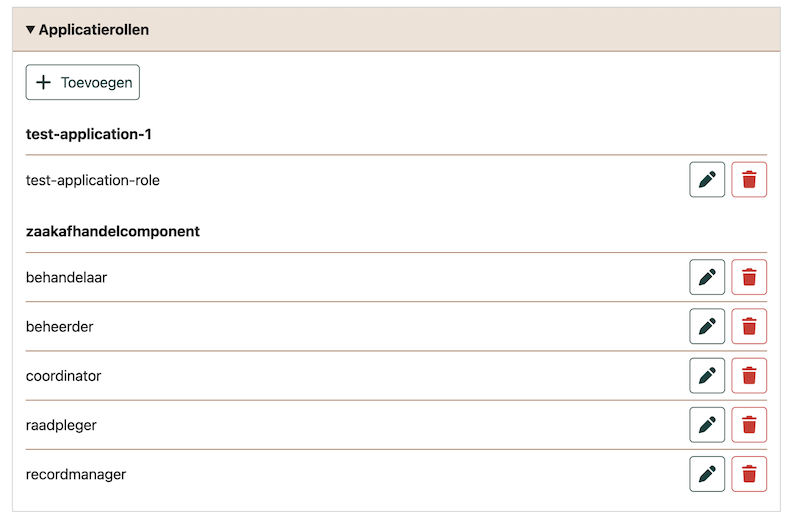
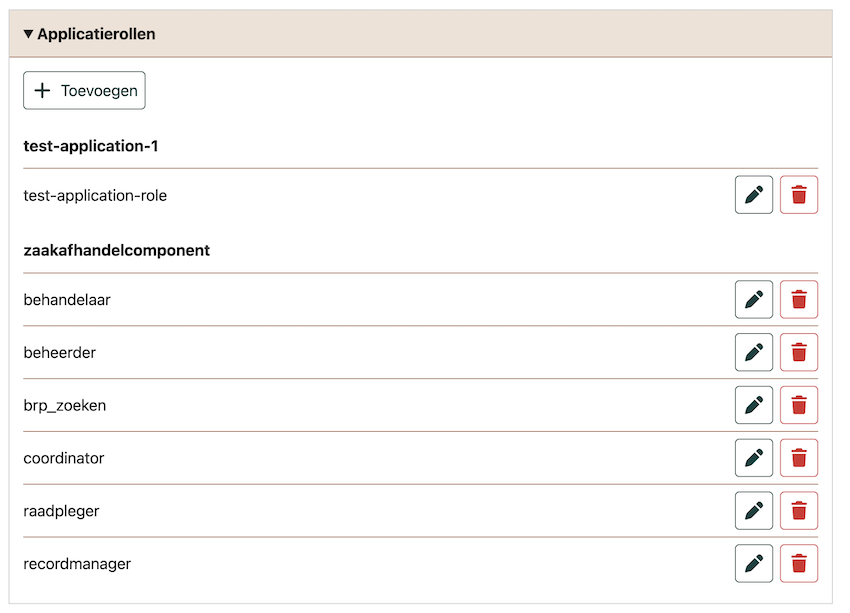
docs: Add documentation for brp_zoeken (#6239)
This PR add documentation for the new application role brp_zoeken

- inrichting-zaakafhandelcomponent.md has been updated with the new
application role and screenshot
- accesControlPolicies.md has been updated to include brp_zoeken in the
rights matrix. It has been added as a new application role

Solves PZ-11034 & PZ-11040

Changed region(s): [[0.0, 0.4023, 0.9688, 0.9594], [0.0312, 0.2166, 0.9688, 0.4023], [0.0, 0.0, 1.0, 0.1857]]

diff --git a/docs/solution-architecture/accessControlPolicies.md b/docs/solution-architecture/accessControlPolicies.md
@@ -12,12 +12,14 @@ Since every user in ZAC has a role, these policies are used to enforce the acces
 As also documented in the [ZAC gebruikershandleiding](../manuals) ZAC supports the following application user roles (in Dutch):
 
 | Role          | Description                                                                                                                                |
-| :------------ | :----------------------------------------------------------------------------------------------------------------------------------------- |
-| Raadpleger    | Een raadpleger. Heeft rechten om zaken, taken en documenten te raadplegen, maar niet om deze te wijzigen.                                  |
-| Behandelaar   | Een zaakbehandelaar. Heeft alle rechten om met de werklijsten, zaken, taken en documenten te werken.                                       |
-| Coördinator   | Een zaakcoördinator of ook wel werkverdeler genoemd. Heeft rechten om vanuit werklijsten werk te verdelen en zaken en taken te raadplegen. |
-| Recordmanager | Mag zaken en taken raadplegen en heeft aanvullende rechten op het gebied van documenten en beëindigde zaken.                               |
-| Beheerder     | De functioneel beheerder. Heeft toegang tot de beheerschermen van ZAC en kan daar diverse instellingen aanmaken en wijzingen.              |
+|:--------------|:-------------------------------------------------------------------------------------------------------------------------------------------|
+| raadpleger    | Een raadpleger. Heeft rechten om zaken, taken en documenten te raadplegen, maar niet om deze te wijzigen.                                  |
+| behandelaar   | Een zaakbehandelaar. Heeft alle rechten om met de werklijsten, zaken, taken en documenten te werken.                                       |
+| coordinator   | Een zaakcoördinator of ook wel werkverdeler genoemd. Heeft rechten om vanuit werklijsten werk te verdelen en zaken en taken te raadplegen. |
+| recordmanager | Mag zaken en taken raadplegen en heeft aanvullende rechten op het gebied van documenten en beëindigde zaken.                               |
+| beheerder     | De functioneel beheerder. Heeft toegang tot de beheerschermen van ZAC en kan daar diverse instellingen aanmaken en wijzingen.              |
+| brp_zoeken    | Heeft het recht om personen op te zoeken in de BRP (Basisregistratie Personen).                                                            |
+
 
 Typically, these roles are assigned to individual users through groups.
 
@@ -25,84 +27,87 @@ Note that the ZAC authorisation architecture has been set up in such that a user
 next to their 'main' role in order to be able to work in ZAC.
 This means the following in practise:
 
-- A user with the 'Behandelaar' role also needs to have the 'Raadpleger' role
-- A user with the 'Coordinator' role also needs to have the 'Raadpleger' and 'Behandelaar' role
-- A user with the 'Recordmanager' role also needs to have the 'Raadpleger', 'Behandelaar' and 'Coordinator' roles
-- A user with the 'Beheerder' role also needs to have the 'Raadpleger', 'Behandelaar', 'Coordinator' and 'Recordmanager' roles
+- A user with the 'behandelaar' role also needs to have the 'raadpleger' role
+- A user with the 'coordinator' role also needs to have the 'raadpleger' and 'behandelaar' role
+- A user with the 'recordmanager' role also needs to have the 'raadpleger', 'behandelaar' and 'coordinator' roles
+- A user with the 'beheerder' role also needs to have the 'raadpleger', 'behandelaar', 'coordinator' and 'recordmanager' roles
+- A user with the 'brp_zoeken' role also needs to have the 'raadpleger' role
 
 ## ZAC policies per resource and role
 
 The following access control policies are enforced in the ZAC backend for the roles listed above for the
 various resources on which a user can perform actions:
 
-| Rechten                                              | Raadpleger |                                                        Behandelaar                                                        | Coördinator |                           Recordmanager                            | Beheerder |
-|:-----------------------------------------------------|:----------:|:-------------------------------------------------------------------------------------------------------------------------:|:-----------:|:------------------------------------------------------------------:|:---------:|
-|                                                      |            |                                                                                                                           |             |                                                                    |           |
-| **_Zaak rechten_** <br/>_(zie ook: Overige rechten)_ |            |                                                                                                                           |             |                                                                    |           |
-| lezen                                                |     ✅      |                                                                                                                           |             |                                                                    |           |
-| wijzigen                                             |            |                                                    ✅<br/>_(zaak open)_                                                    |             |                      ✅<br/>_(en afgehandeld)_                      |           |
-| toekennen                                            |            |                                                    ✅<br/>_(zaak open)_                                                    |             |                      ✅<br/>_(en afgehandeld)_                      |           |
-| behandelen                                           |            |                                                             ✅                                                             |             |                                                                    |           |
-| afbreken                                             |            |                                                             ✅                                                             |             |                                                                    |           |
-| heropenen                                            |            |                                                                                                                           |             |                                 ✅                                  |           |
-| bekijkenZaakdata                                     |            |                                                                                                                           |             |                                                                    |     ✅     |
-| wijzigen_doorlooptijd                                |            |                                                     ✅<br/>(zaak open)                                                     |             |                                                                    |           |
-| wijzigen_locatie                                     |            |                                                     ✅<br/>(zaak open)                                                     |             |                                 ✅                                  |           |
-| verlengen                                            |            |                       ✅<br/>_(zaak open, niet heropend, niet opgeschort, en niet al keer verlengd)_                       |             |                                                                    |           |
-| opschorten                                           |            |                                    ✅<br/>_(zaak open, niet heropend, niet opgeschort)_                                    |             |                                                                    |           |
-| hervatten                                            |            |                                                             ✅                                                             |             |                                                                    |           |
-| creeren_document                                     |            |                                                    ✅<br/>_(zaak open)_                                                    |             |                                                                    |           |
-| toevoegen_document                                   |            |                                                    ✅<br/>_(zaak open)_                                                    |             |                                 ✅                                  |           |
-| koppelen                                             |            |                                                ✅<br/>_(beide zaken open)_                                                 |             |       ✅<br/>_(beide zaken open of beide zaken afgehandeld)_        |           |
-| versturen_email                                      |            |                                                    ✅<br/>_(zaak open)_                                                    |             |                                                                    |           |
-| versturen_ontvangstbevestiging                       |            |                                                    ✅<br/>_(zaak open)_                                                    |             |                                                                    |           |
-| toevoegen_initiator_persoon                          |            |                                                    ✅<br/>_(zaak open)_                                                    |             |                                 ✅                                  |           |
-| toevoegen_initiator_bedrijf                          |            |                                                    ✅<br/>_(zaak open)_                                                    |             |                                 ✅                                  |           |
-| verwijderen_initiator                                |            |                                                    ✅<br/>_(zaak open)_                                                    |             |                                 ✅                                  |           |
-| toevoegen_betrokkene_persoon                         |            |                                                    ✅<br/>_(zaak open)_                                                    |             |                                 ✅                                  |           |
-| toevoegen_betrokkene_bedrijf                         |            |                                                    ✅<br/>_(zaak open)_                                                    |             |                                 ✅                                  |           |
-| verwijderen_betrokkene                               |            |                                                    ✅<br/>_(zaak open)_                                                    |             |                                 ✅                                  |           |
-| toevoegen_bag_object                                 |            |                                                    ✅<br/>_(zaak open)_                                                    |             |                                 ✅                                  |           |
-| starten_taak                                         |            |                                        ✅<br/>_(afhankelijk van CMMN status zaak)_                                         |             |                                                                    |           |
-| vastleggen_besluit                                   |            |                             ✅<br/>_(zaak open, niet in intake, zaaktype heeft besluittypen)_                              |             |                                                                    |           |
-| verlengen_doorlooptijd (alle datumvelden)            |            |                                                    ✅<br/>_(zaak open)_                                                    |             |                                                                    |           |
-|                                                      |            |                                                                                                                           |             |                                                                    |           |
-| **_Taak rechten_**                                   |            |                                                                                                                           |             |                                                                    |           |
-| lezen                                                |     ✅      |                                                                                                                           |             |                                                                    |           |
-| wijzigen                                             |            |                                                             ✅                                                             |             |                                                                    |           |
-| toekennen                                            |            |                                                             ✅                                                             |             |                                                                    |           |
-| creeren_document                                     |            |                                              ✅<br/>_(zaak open, taak open)_                                               |             |                                                                    |           |
-| toevoegen_document                                   |            |                                              ✅<br/>_(zaak open, taak open)_                                               |             |                                                                    |           |
-|                                                      |            |                                                                                                                           |             |                                                                    |           |
-| **_Document rechten_**                               |            |                                                                                                                           |             |                                                                    |           |
-| lezen                                                |     ✅      |                                                                                                                           |             |                                                                    |           |
-| wijzigen                                             |            | ✅<br/>_(zaak open/heropend, document onvergrendeld of vergrendeld door gebruiker, document status anders dan definitief)_ |             | ✅<br/>_(document ontgrendelen + documenten met status definitief)_ |           |
-| verwijderen                                          |            |                    ✅<br/>(zaak open, document status anders dan definitief, document onvergrendeld)\_                     |             |                  ✅<br/>_(document onvergrendeld)_                  |           |
-| vergrendelen                                         |            |                                               ✅<br/>_(zaak open/heropend)_                                                |             |                                                                    |           |
-| ontgrendelen                                         |            |                             ✅<br/>_(zaak open/heropend, document vergrendeld door gebruiker)_                             |             |                          ✅<br/>_(altijd)_                          |           |
-| ondertekenen                                         |            |                    ✅<br/>_(zaak open/heropend, document onvergrendeld of vergrendeld door gebruiker)_                     |             |                                                                    |           |
-| toevoegen_nieuwe_versie                              |            |     ✅<br/>_(zaak open, document onvergrendeld of vergrendeld door gebruiker, document status anders dan definitief)_      |             |                          ✅<br/>_(altijd)_                          |           |
-| verplaatsen (koppelen)                               |            |     ✅<br/>_(zaak open, document onvergrendeld of vergrendeld door gebruiker, document status anders dan definitief)_      |             |           ✅<br/>_(afgehandelde zaak, status definitief)_           |           |
-| ontkoppelen                                          |            |      ✅<br/>_(zaak open, document onvergrendeld of vergrendeld door gebruiker, document satus anders dan definitief)_      |             |           ✅<br/>_(afgehandelde zaak, status definitief)_           |           |
-| downloaden                                           |     ✅      |                                                                                                                           |             |                                                                    |           |
-| converteren                                          |            |                                                  ✅ (document definitief)                                                  |             |                                                                    |           |
-|                                                      |            |                                                                                                                           |             |                                                                    |           |
-| **_Werklijst rechten_**                              |            |                                                                                                                           |             |                                                                    |           |
-| inbox                                                |            |                                                                                                                           |      ✅      |                                                                    |           |
-| ontkoppelde_documenten_verwijderen                   |            |                                                                                                                           |             |                                 ✅                                  |           |
-| inbox_productaanvragen_verwijderen                   |            |                                                                                                                           |             |                                 ✅                                  |           |
-| zaken_taken                                          |     ✅      |                                                                                                                           |             |                                                                    |           |
-| zaken_taken_verdelen                                 |            |                                                                                                                           |      ✅      |                                                                    |           |
-| zaken_taken_exporteren                               |            |                                                                                                                           |             |                                                                    |     ✅     |
-|                                                      |            |                                                                                                                           |             |                                                                    |           |
-| **_Notitie rechten_**                                |            |                                                                                                                           |             |                                                                    |           |
-| lezen                                                |     ✅      |                                                                                                                           |             |                                                                    |           |
-| wijzigen                                             |            |                                                             ✅                                                             |             |                                                                    |           |
-|                                                      |            |                                                                                                                           |             |                                                                    |           |
-| **_Overige rechten_**                                |            |                                                                                                                           |             |                                                                    |           |
-| starten_zaak                                         |            |                                                             ✅                                                             |             |                                                                    |           |
-| beheren                                              |            |                                                                                                                           |             |                                                                    |     ✅     |
-| zoeken                                               |     ✅      |                                                                                                                           |             |                                                                    |           |
+| Rechten                                              | raadpleger |                                                        behandelaar                                                        | coordinator |                           recordmanager                            | beheerder | brp_zoeken |
+|:-----------------------------------------------------|:----------:|:-------------------------------------------------------------------------------------------------------------------------:|:-----------:|:------------------------------------------------------------------:|:---------:|:----------:|
+|                                                      |            |                                                                                                                           |             |                                                                    |           |            |
+| **_Zaak rechten_** <br/>_(zie ook: Overige rechten)_ |            |                                                                                                                           |             |                                                                    |           |            |
+| lezen                                                |     ✅      |                                                                                                                           |             |                                                                    |           |            |
+| wijzigen                                             |            |                                                    ✅<br/>_(zaak open)_                                                    |             |                      ✅<br/>_(en afgehandeld)_                      |           |            |
+| toekennen                                            |            |                                                    ✅<br/>_(zaak open)_                                                    |             |                      ✅<br/>_(en afgehandeld)_                      |           |            |
+| behandelen                                           |            |                                                             ✅                                                             |             |                                                                    |           |            |
+| afbreken                                             |            |                                                             ✅                                                             |             |                                                                    |           |            |
+| heropenen                                            |            |                                                                                                                           |             |                                 ✅                                  |           |            |
+| bekijkenZaakdata                                     |            |                                                                                                                           |             |                                                                    |     ✅     |            |
+| wijzigen_doorlooptijd                                |            |                                                     ✅<br/>(zaak open)                                                     |             |                                                                    |           |            |
+| wijzigen_locatie                                     |            |                                                     ✅<br/>(zaak open)                                                     |             |                                 ✅                                  |           |            |
+| verlengen                                            |            |                       ✅<br/>_(zaak open, niet heropend, niet opgeschort, en niet al keer verlengd)_                       |             |                                                                    |           |            |
+| opschorten                                           |            |                                    ✅<br/>_(zaak open, niet heropend, niet opgeschort)_                                    |             |                                                                    |           |            |
+| hervatten                                            |            |                                                             ✅                                                             |             |                                                                    |           |            |
+| creeren_document                                     |            |                                                    ✅<br/>_(zaak open)_                                                    |             |                                                                    |           |            |
+| toevoegen_document                                   |            |                                                    ✅<br/>_(zaak open)_                                                    |             |                                 ✅                                  |           |            |
+| koppelen                                             |            |                                                ✅<br/>_(beide zaken open)_                                                 |             |       ✅<br/>_(beide zaken open of beide zaken afgehandeld)_        |           |            |
+| versturen_email                                      |            |                                                    ✅<br/>_(zaak open)_                                                    |             |                                                                    |           |            |
+| versturen_ontvangstbevestiging                       |            |                                                    ✅<br/>_(zaak open)_                                                    |             |                                                                    |           |            |
+| toevoegen_initiator_persoon                          |            |                                                    ✅<br/>_(zaak open)_                                                    |             |                                 ✅                                  |           |            |
+| toevoegen_initiator_bedrijf                          |            |                                                    ✅<br/>_(zaak open)_                                                    |             |                                 ✅                                  |           |            |
+| verwijderen_initiator                                |            |                                                    ✅<br/>_(zaak open)_                                                    |             |                                 ✅                                  |           |            |
+| toevoegen_betrokkene_persoon                         |            |                                                    ✅<br/>_(zaak open)_                                                    |             |                                 ✅                                  |           |            |
+| toevoegen_betrokkene_bedrijf                         |            |                                                    ✅<br/>_(zaak open)_                                                    |             |                                 ✅                                  |           |            |
+| verwijderen_betrokkene                               |            |                                                    ✅<br/>_(zaak open)_                                                    |             |                                 ✅                                  |           |            |
+| toevoegen_bag_object                                 |            |                                                    ✅<br/>_(zaak open)_                                                    |             |                                 ✅                                  |           |            |
+| starten_taak                                         |            |                                        ✅<br/>_(afhankelijk van CMMN status zaak)_                                         |             |                                                                    |           |            |
+| vastleggen_besluit                                   |            |                             ✅<br/>_(zaak open, niet in intake, zaaktype heeft besluittypen)_                              |             |                                                                    |           |            |
+| verlengen_doorlooptijd (alle datumvelden)            |            |                                                    ✅<br/>_(zaak open)_                                                    |             |                                                                    |           |            |
+|                                                      |            |                                                                                                                           |             |                                                                    |           |            |
+| **_Taak rechten_**                                   |            |                                                                                                                           |             |                                                                    |           |            |
+| lezen                                                |     ✅      |                                                                                                                           |             |                                                                    |           |            |
+| wijzigen                                             |            |                                                             ✅                                                             |             |                                                                    |           |            |
+| toekennen                                            |            |                                                             ✅                                                             |             |                                                                    |           |            |
+| creeren_document                                     |            |                                              ✅<br/>_(zaak open, taak open)_                                               |             |                                                                    |           |            |
+| toevoegen_document                                   |            |                                              ✅<br/>_(zaak open, taak open)_                                               |             |                                                                    |           |            |
+|                                                      |            |                                                                                                                           |             |                                                                    |           |            |
+| **_Document rechten_**                               |            |                                                                                                                           |             |                                                                    |           |            |
+| lezen                                                |     ✅      |                                                                                                                           |             |                                                                    |           |            |
+| wijzigen                                             |            | ✅<br/>_(zaak open/heropend, document onvergrendeld of vergrendeld door gebruiker, document status anders dan definitief)_ |             | ✅<br/>_(document ontgrendelen + documenten met status definitief)_ |           |            |
+| verwijderen                                          |            |                    ✅<br/>(zaak open, document status anders dan definitief, document onvergrendeld)\_                     |             |                  ✅<br/>_(document onvergrendeld)_                  |           |            |
+| vergrendelen                                         |            |                                               ✅<br/>_(zaak open/heropend)_                                                |             |                                                                    |           |            |
+| ontgrendelen                                         |            |                             ✅<br/>_(zaak open/heropend, document vergrendeld door gebruiker)_                             |             |                          ✅<br/>_(altijd)_                          |           |            |
+| ondertekenen                                         |            |                    ✅<br/>_(zaak open/heropend, document onvergrendeld of vergrendeld door gebruiker)_                     |             |                                                                    |           |            |
+| toevoegen_nieuwe_versie                              |            |     ✅<br/>_(zaak open, document onvergrendeld of vergrendeld door gebruiker, document status anders dan definitief)_      |             |                          ✅<br/>_(altijd)_                          |           |            |
+| verplaatsen (koppelen)                               |            |     ✅<br/>_(zaak open, document onvergrendeld of vergrendeld door gebruiker, document status anders dan definitief)_      |             |           ✅<br/>_(afgehandelde zaak, status definitief)_           |           |            |
+| ontkoppelen                                          |            |      ✅<br/>_(zaak open, document onvergrendeld of vergrendeld door gebruiker, document satus anders dan definitief)_      |             |           ✅<br/>_(afgehandelde zaak, status definitief)_           |           |            |
+| downloaden                                           |     ✅      |                                                                                                                           |             |                                                                    |           |            |
+| converteren                                          |            |                                                  ✅ (document definitief)                                                  |             |                                                                    |           |            |
+|                                                      |            |                                                                                                                           |             |                                                                    |           |            |
+| **_Werklijst rechten_**                              |            |                                                                                                                           |             |                                                                    |           |            |
+| inbox                                                |            |                                                                                                                           |      ✅      |                                                                    |           |            |
+| ontkoppelde_documenten_verwijderen                   |            |                                                                                                                           |             |                                 ✅                                  |           |            |
+| inbox_productaanvragen_verwijderen                   |            |                                                                                                                           |             |                                 ✅                                  |           |            |
+| zaken_taken                                          |     ✅      |                                                                                                                           |             |                                                                    |           |            |
+| zaken_taken_verdelen                                 |            |                                                                                                                           |      ✅      |                                                                    |           |            |
+| zaken_taken_exporteren                               |            |                                                                                                                           |             |                                                                    |     ✅     |            |
+|                                                      |            |                                                                                                                           |             |                                                                    |           |            |
+| **_Notitie rechten_**                                |            |                                                                                                                           |             |                                                                    |           |            |
+| lezen                                                |     ✅      |                                                                                                                           |             |                                                                    |           |            |
+| wijzigen                                             |            |                                                             ✅                                                             |             |                                                                    |           |            |
+|                                                      |            |                                                                                                                           |             |                                                                    |           |            |
+| **_Overige rechten_**                                |            |                                                                                                                           |             |                                                                    |           |            |
+| starten_zaak                                         |            |                                                             ✅                                                             |             |                                                                    |           |            |
+| beheren                                              |            |                                                                                                                           |             |                                                                    |     ✅     |            |
+| zoeken                                               |     ✅      |                                                                                                                           |             |                                                                    |           |            |
+| brp_zoeken                                           |            |                                                                                                                           |             |                                                                    |           |     ✅      |
+
 
 Notes:
 

diff --git a/docs/manuals/inrichting-zaakafhandelcomponent/inrichting-zaakafhandelcomponent.md b/docs/manuals/inrichting-zaakafhandelcomponent/inrichting-zaakafhandelcomponent.md
@@ -522,6 +522,7 @@ ZAC kent op dit moment de volgende applicatierollen:
 * `coordinator`
 * `recordmanager`
 * `beheerder`
+* `brp_zoeken`
 
 De PABC wordt gebruikt om functionele rollen te autoriseren door vanuit functionele rollen koppelingen
 te maken naar combinaties van entiteitstypes (zoals zaaktypen) en applicatierollen.